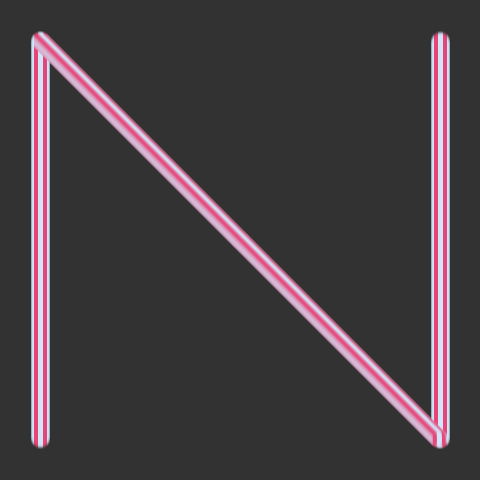
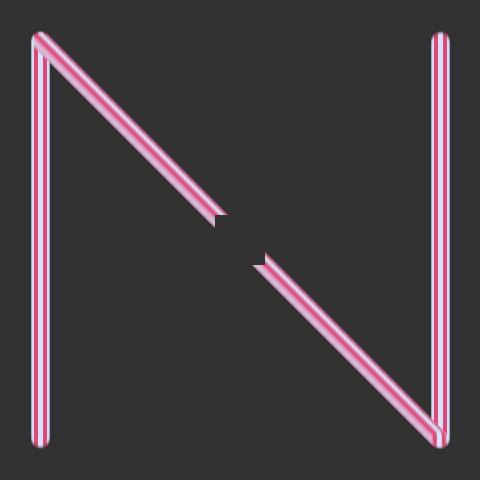
changed Eraser to Duster with some modifications

Changed region(s): [[0.4375, 0.4375, 0.5625, 0.5625]]

diff --git a/src/sheet.py b/src/sheet.py
@@ -4,10 +4,11 @@ class Chalk:
     def __init__(self, trace: list[list[tuple[int, int, int, int]]]) -> None:
         self.trace = trace
     
-class Eraser:
-    def __init__(self, rectangle: tuple[int, int]) -> None:
-        self.rectangle = rectangle
-    
+class Duster:
+    def __init__(self, rectangle: tuple[int, int], color: tuple[int, int, int, int]) -> None:
+        width, height = rectangle
+        trace = [[color for _ in range(0, width)] for _ in range(0, width)]
+        self.chalk = Chalk(trace)
     
 class BloxelBoard:
     def __init__(self, size: tuple[int, int], background: tuple[int, int, int]):
@@ -19,8 +20,8 @@ class BloxelBoard:
     
     def mark(self, chalk: Chalk, pos: tuple[int, int]):
         trace = chalk.trace
-        midi = int(len(trace) / 2)
-        midj = int(len(trace[0]) / 2)
+        midi = len(trace) // 2
+        midj = len(trace[0]) // 2
         x, y = pos
         width, height = self.board.size
         for tj in range(0, len(trace)):
@@ -38,23 +39,13 @@ class BloxelBoard:
                     self.board.putpixel((ni, nj), (int(r), int(g), int(b)))
                 
         
-    def erase(self, pos: tuple[int, int], eraser: Eraser):
-        e_width, e_height = eraser.rectangle
-        width, height = self.board.size
-        midi = e_width / 2
-        midj = e_height / 2
-        x, y = pos
-        for ei in range(0, e_width):
-            for ej in range(0, e_height):
-                ni = x + ei - midi
-                nj = y + ej - midj
-                if ni >= 0 and ni < width and nj >= 0 and nj < height:
-                    self.board.putpixel((ni, nj), self.background)
+    def erase(self, pos: tuple[int, int], duster: Duster):
+        self.mark(duster.chalk, pos)
         
 trace = [[(0,0,0,0) for _ in range(0, 21)] for _ in range(0, 21)]
 
-midi = int(len(trace) / 2)
-midj = int(len(trace[0]) / 2)
+midi = len(trace) // 2
+midj = len(trace[0]) // 2
 max_dist = max(midi, midj)**2
 
 for i in range(0, len(trace)):
@@ -73,6 +64,8 @@ background = (50, 50, 50)
 
 board = BloxelBoard((480, 480), background)
 
+duster = Duster((50, 50), (50, 50, 50, 100))
+
 chalk = Chalk(trace)
 board.mark(chalk, (240, 240))
 
@@ -82,5 +75,8 @@ for j in range(40, 440):
    board.mark(chalk, (40, j))
 for x in range(40, 440):
    board.mark(chalk, (x, x))
+   
+for _ in range(0, 20):
+    board.erase((240, 240), duster)
 
 board.save("temp_sheet7.png")
